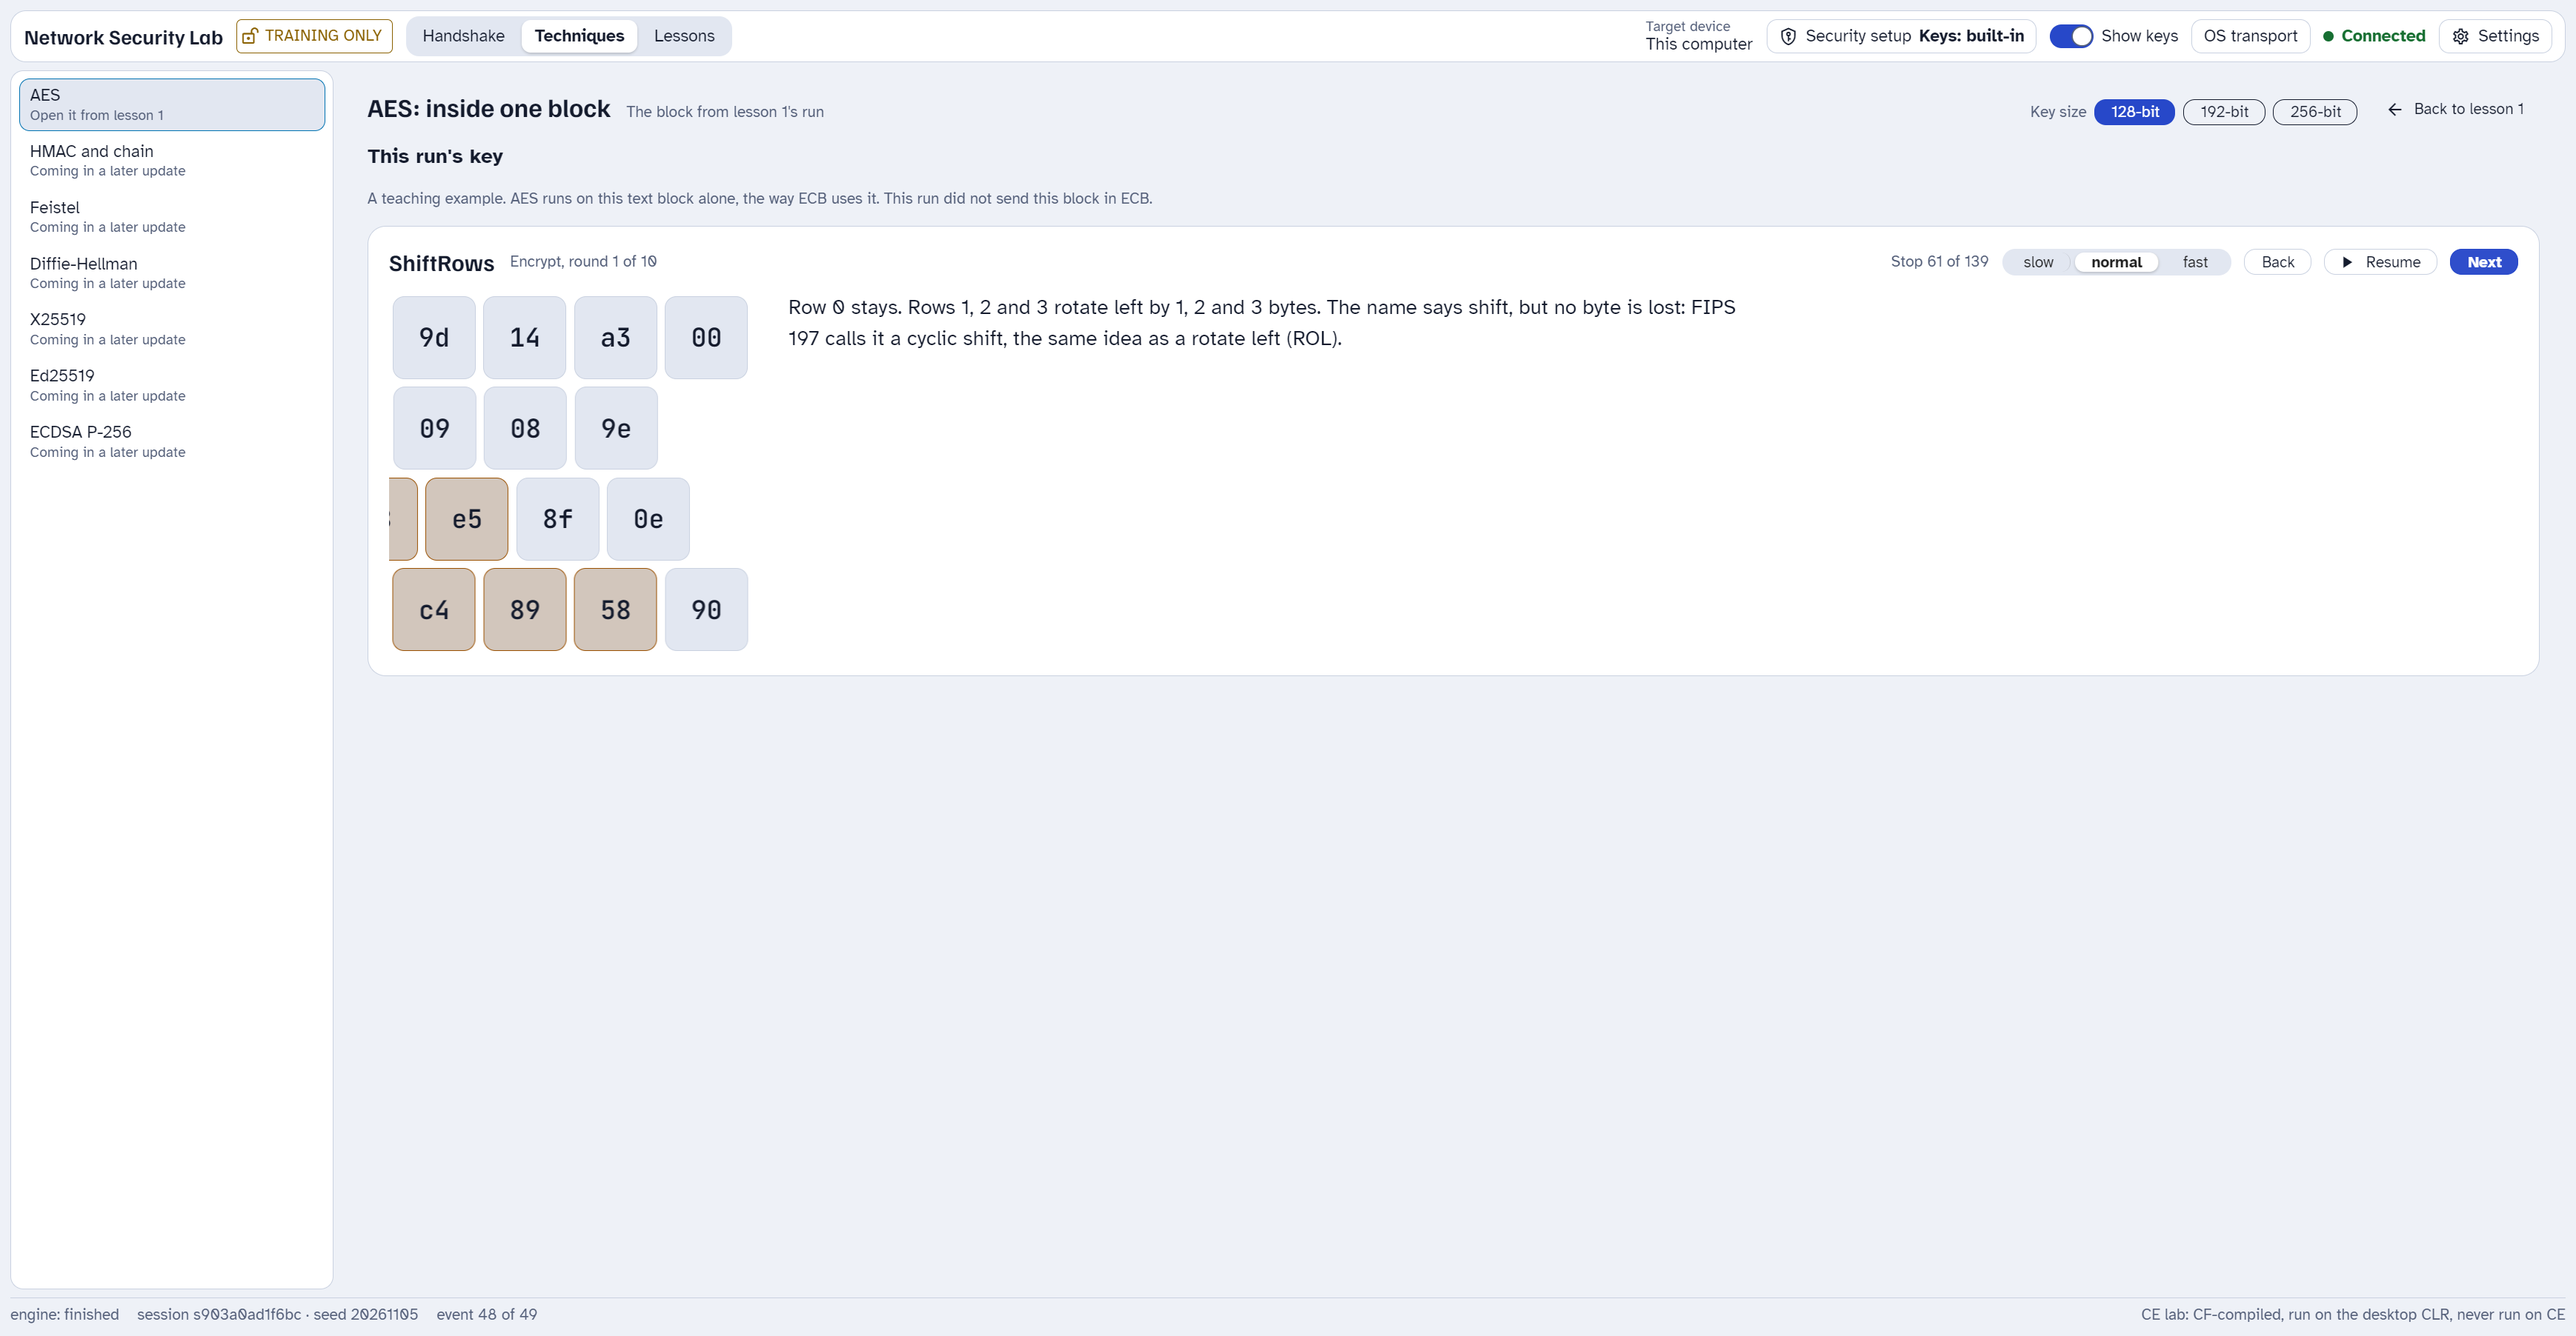
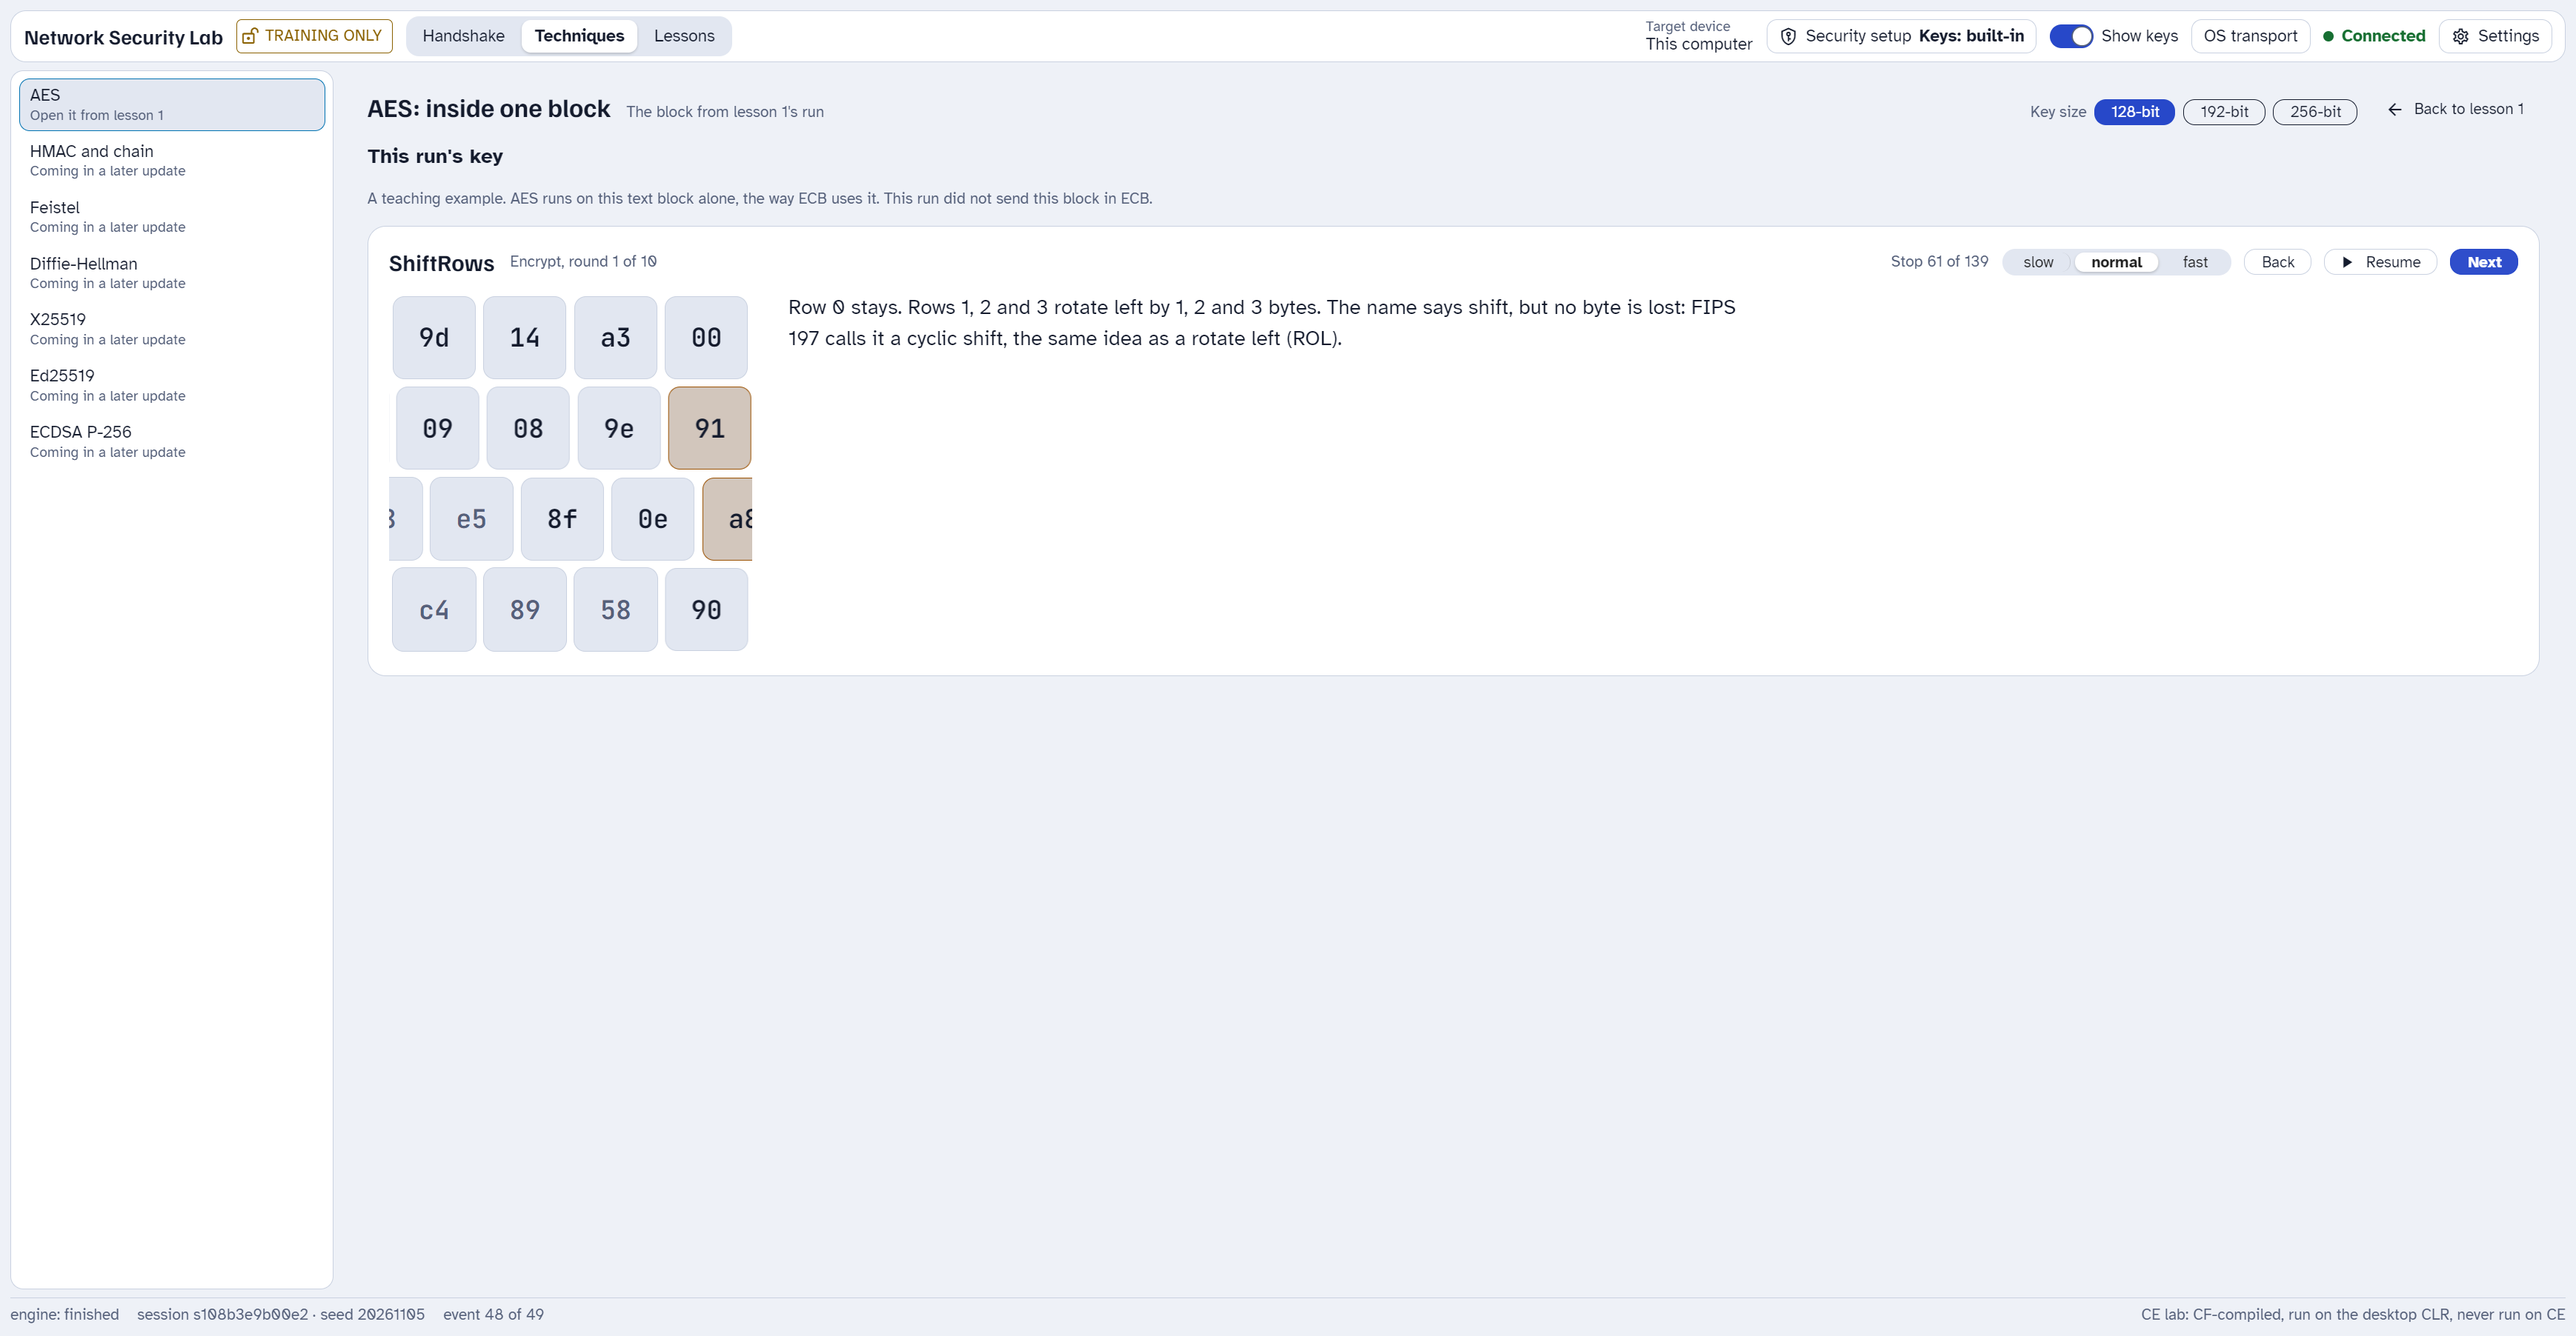
fix(app): the ShiftRows roll keeps every slot full; the byte that rolls out rides on its cell's old-byte layer (Richard on #255)
One element per byte could not leave past one edge and arrive at the other,
so column 3 of each moving row stood empty late in the roll. Now every cell
rolls the whole row's distance into place, and each old byte that rolls out
rides on its cell's ::after layer at a fixed offset, so it leaves while the
new byte arrives. A new spec probes each column of rows 1 to 3 at 25%, 50%
and 80% of the roll: it failed on the old roll (row 1 column 3 at 80%, row 3
column 3 at 25%) and passes now. The motion pictures are retaken.

Claude-Session: https://claude.ai/code/session_013RTdUaidNWNSSsRoFumAcR

Changed region(s): [[0.1243, 0.2794, 0.3107, 0.4967], [0.0932, 0.9623, 0.2175, 0.9933]]

diff --git a/app/src/walkMotion.ts b/app/src/walkMotion.ts
@@ -34,15 +34,13 @@ function flip(animate: Animate, el: HTMLElement, old: string, delay: number, dur
 }
 
 /**
- * The ShiftRows roll as keyframes, in columns travelled (multiply by the column pitch). Each byte starts at its old column. A byte that
- * wraps rolls out past one edge and comes back in at the other, so the row moves like a ticker tape with no empty slot.
+ * The ShiftRows roll, like a ticker tape (design 2.2a). The whole row slides `by` columns, so every cell starts `by` columns away and
+ * rolls into place: a byte that wraps starts past the far edge and rolls in. The old bytes that roll out past the near edge ride on
+ * their cell's old-byte layer at a fixed offset of `-by` columns, so they leave while the new bytes arrive. One element per byte cannot
+ * both leave on one side and arrive on the other, so the leaving copy is the layer (Richard on #255). No slot is ever empty.
  */
-export function rollFrames(c: number, by: number, wrapped: boolean): { offset: number; x: number }[] {
-  if (!wrapped) return [{ offset: 0, x: by }, { offset: 1, x: 0 }]
-  const x0 = by > 0 ? by - 4 : by + 4
-  const edge = by > 0 ? -(c + 1) : 4 - c
-  const f = (x0 - edge) / by
-  return [{ offset: 0, x: x0 }, { offset: f, x: edge }, { offset: f, x: edge + (by > 0 ? 4 : -4) }, { offset: 1, x: 0 }]
+export function rollLeaves(c: number, by: number): boolean {
+  return c - by < 0 || c - by > 3
 }
 
 export interface MotionInput { root: HTMLElement; to: Stop; tables: AesTables; nk: number; animate: Animate }
@@ -90,7 +88,7 @@ export function startMotion({ root, to, tables, nk, animate }: MotionInput) {
     return
   }
   if (kind === 'ShiftRows' || kind === 'InvShiftRows') {
-    // A roll, one row at a time, like a ticker tape. Each cell starts where its byte stood, so the row slides into place.
+    // A roll, one row at a time, like a ticker tape. See rollLeaves for how the row stays full.
     const inverse = kind === 'InvShiftRows'
     const map = inverse ? tables.inverseShiftRows : tables.shiftRows
     const a = cellOf(root, 0, 0), b = cellOf(root, 0, 1)
@@ -98,9 +96,15 @@ export function startMotion({ root, to, tables, nk, animate }: MotionInput) {
     for (const r of [1, 2, 3]) for (const c of ROWS) {
       const el = cellOf(root, r, c)
       if (!el) continue
-      const { by, wrapped } = shiftOf(map, cellIndex(r, c), inverse)
-      const frames = rollFrames(c, by, wrapped).map(k => ({ offset: k.offset, transform: `translateX(${k.x * pitch}px)` }))
-      animate(el, frames, { duration: 160 * Math.abs(by) + 360, delay: 300 * (r - 1), easing: 'linear' })
+      const { by } = shiftOf(map, cellIndex(r, c), inverse)
+      const timing = { duration: 160 * Math.abs(by) + 360, delay: 300 * (r - 1), easing: 'linear' }
+      animate(el, [{ transform: `translateX(${by * pitch}px)` }, { transform: 'translateX(0)' }], timing)
+      if (rollLeaves(c, by)) {
+        // The old byte of this column rolls out: it holds still against the moving cell, so it travels from column c to c - by.
+        el.dataset.old = old(cellIndex(r, c))
+        const away = `translateX(${-by * pitch}px)`
+        animate(el, [{ transform: away, opacity: 1 }, { transform: away, opacity: 1, offset: 0.999 }, { transform: away, opacity: 0 }], { ...timing, pseudo: '::after' })
+      }
     }
   }
 }

diff --git a/app/e2e/aes-walk-motion.spec.ts b/app/e2e/aes-walk-motion.spec.ts
@@ -49,6 +49,42 @@ test('Back during a motion lands on the step before, with no old-byte mark and n
   expect(after.running + after.paused, 'nothing moves after Back').toBe(0)
 })
 
+test('through the ShiftRows roll, every column of every moving row shows a byte', async ({ page }) => {
+  await toSubBytes(page)
+  await page.emulateMedia({ reducedMotion: 'reduce' })
+  await page.getByTestId('aes-walk-next').click()
+  await expect(kind(page)).toHaveText('SubBytes')
+  await page.emulateMedia({ reducedMotion: 'no-preference' })
+  await page.getByTestId('aes-walk-next').click()
+  await expect(kind(page)).toHaveText('ShiftRows')
+  await play(page).click()
+  await expect(play(page)).toHaveText('Resume')
+  // The point checks find a cell, or the old-byte layer riding on it, and a gap hits the grid behind them. The layer takes no click in
+  // the app, so this test lets the probe hit it.
+  await page.addStyleTag({ content: '.aw-cell[data-old]::after { pointer-events: auto !important; }' })
+  // The probe runs at 25%, 50% and 80% of each row's roll. A hole can open late, as a neighbour cell settles, so one time is not enough.
+  const holes = await page.getByTestId('aes-walk-block').evaluate(el => {
+    const missing: string[] = []
+    for (const at of [0.25, 0.5, 0.8]) {
+    for (const a of el.getAnimations({ subtree: true })) {
+      if (a instanceof CSSTransition || a instanceof CSSAnimation) continue
+      const t = a.effect!.getTiming()
+      a.currentTime = Number(t.delay ?? 0) + Number(t.duration) * at
+    }
+    for (const r of [1, 2, 3]) for (const c of [0, 1, 2, 3]) {
+      const col = el.querySelector(`[data-testid="aes-walk-cell-0-${c}"]`)!.getBoundingClientRect()
+      const row = el.querySelector(`[data-testid="aes-walk-cell-${r}-0"]`)!.getBoundingClientRect()
+      // 3 points across the column: a half-column offset can put the centre in the thin gap between 2 cells, and a real hole is a whole cell wide.
+      const y = row.top + row.height / 2
+      const hits = [-0.25, 0, 0.25].map(f => document.elementFromPoint(col.left + col.width * (0.5 + f), y)?.closest('[data-testid^="aes-walk-cell-"]'))
+      if (!hits.some(Boolean)) missing.push(`${at * 100}%: row ${r}, column ${c}`)
+    }
+    }
+    return missing
+  })
+  expect(holes, 'no empty slot mid-roll').toEqual([])
+})
+
 test('Next while paused ends the motion and moves on one step', async ({ page }) => {
   await toSubBytes(page)
   await page.getByTestId('aes-walk-next').click()
